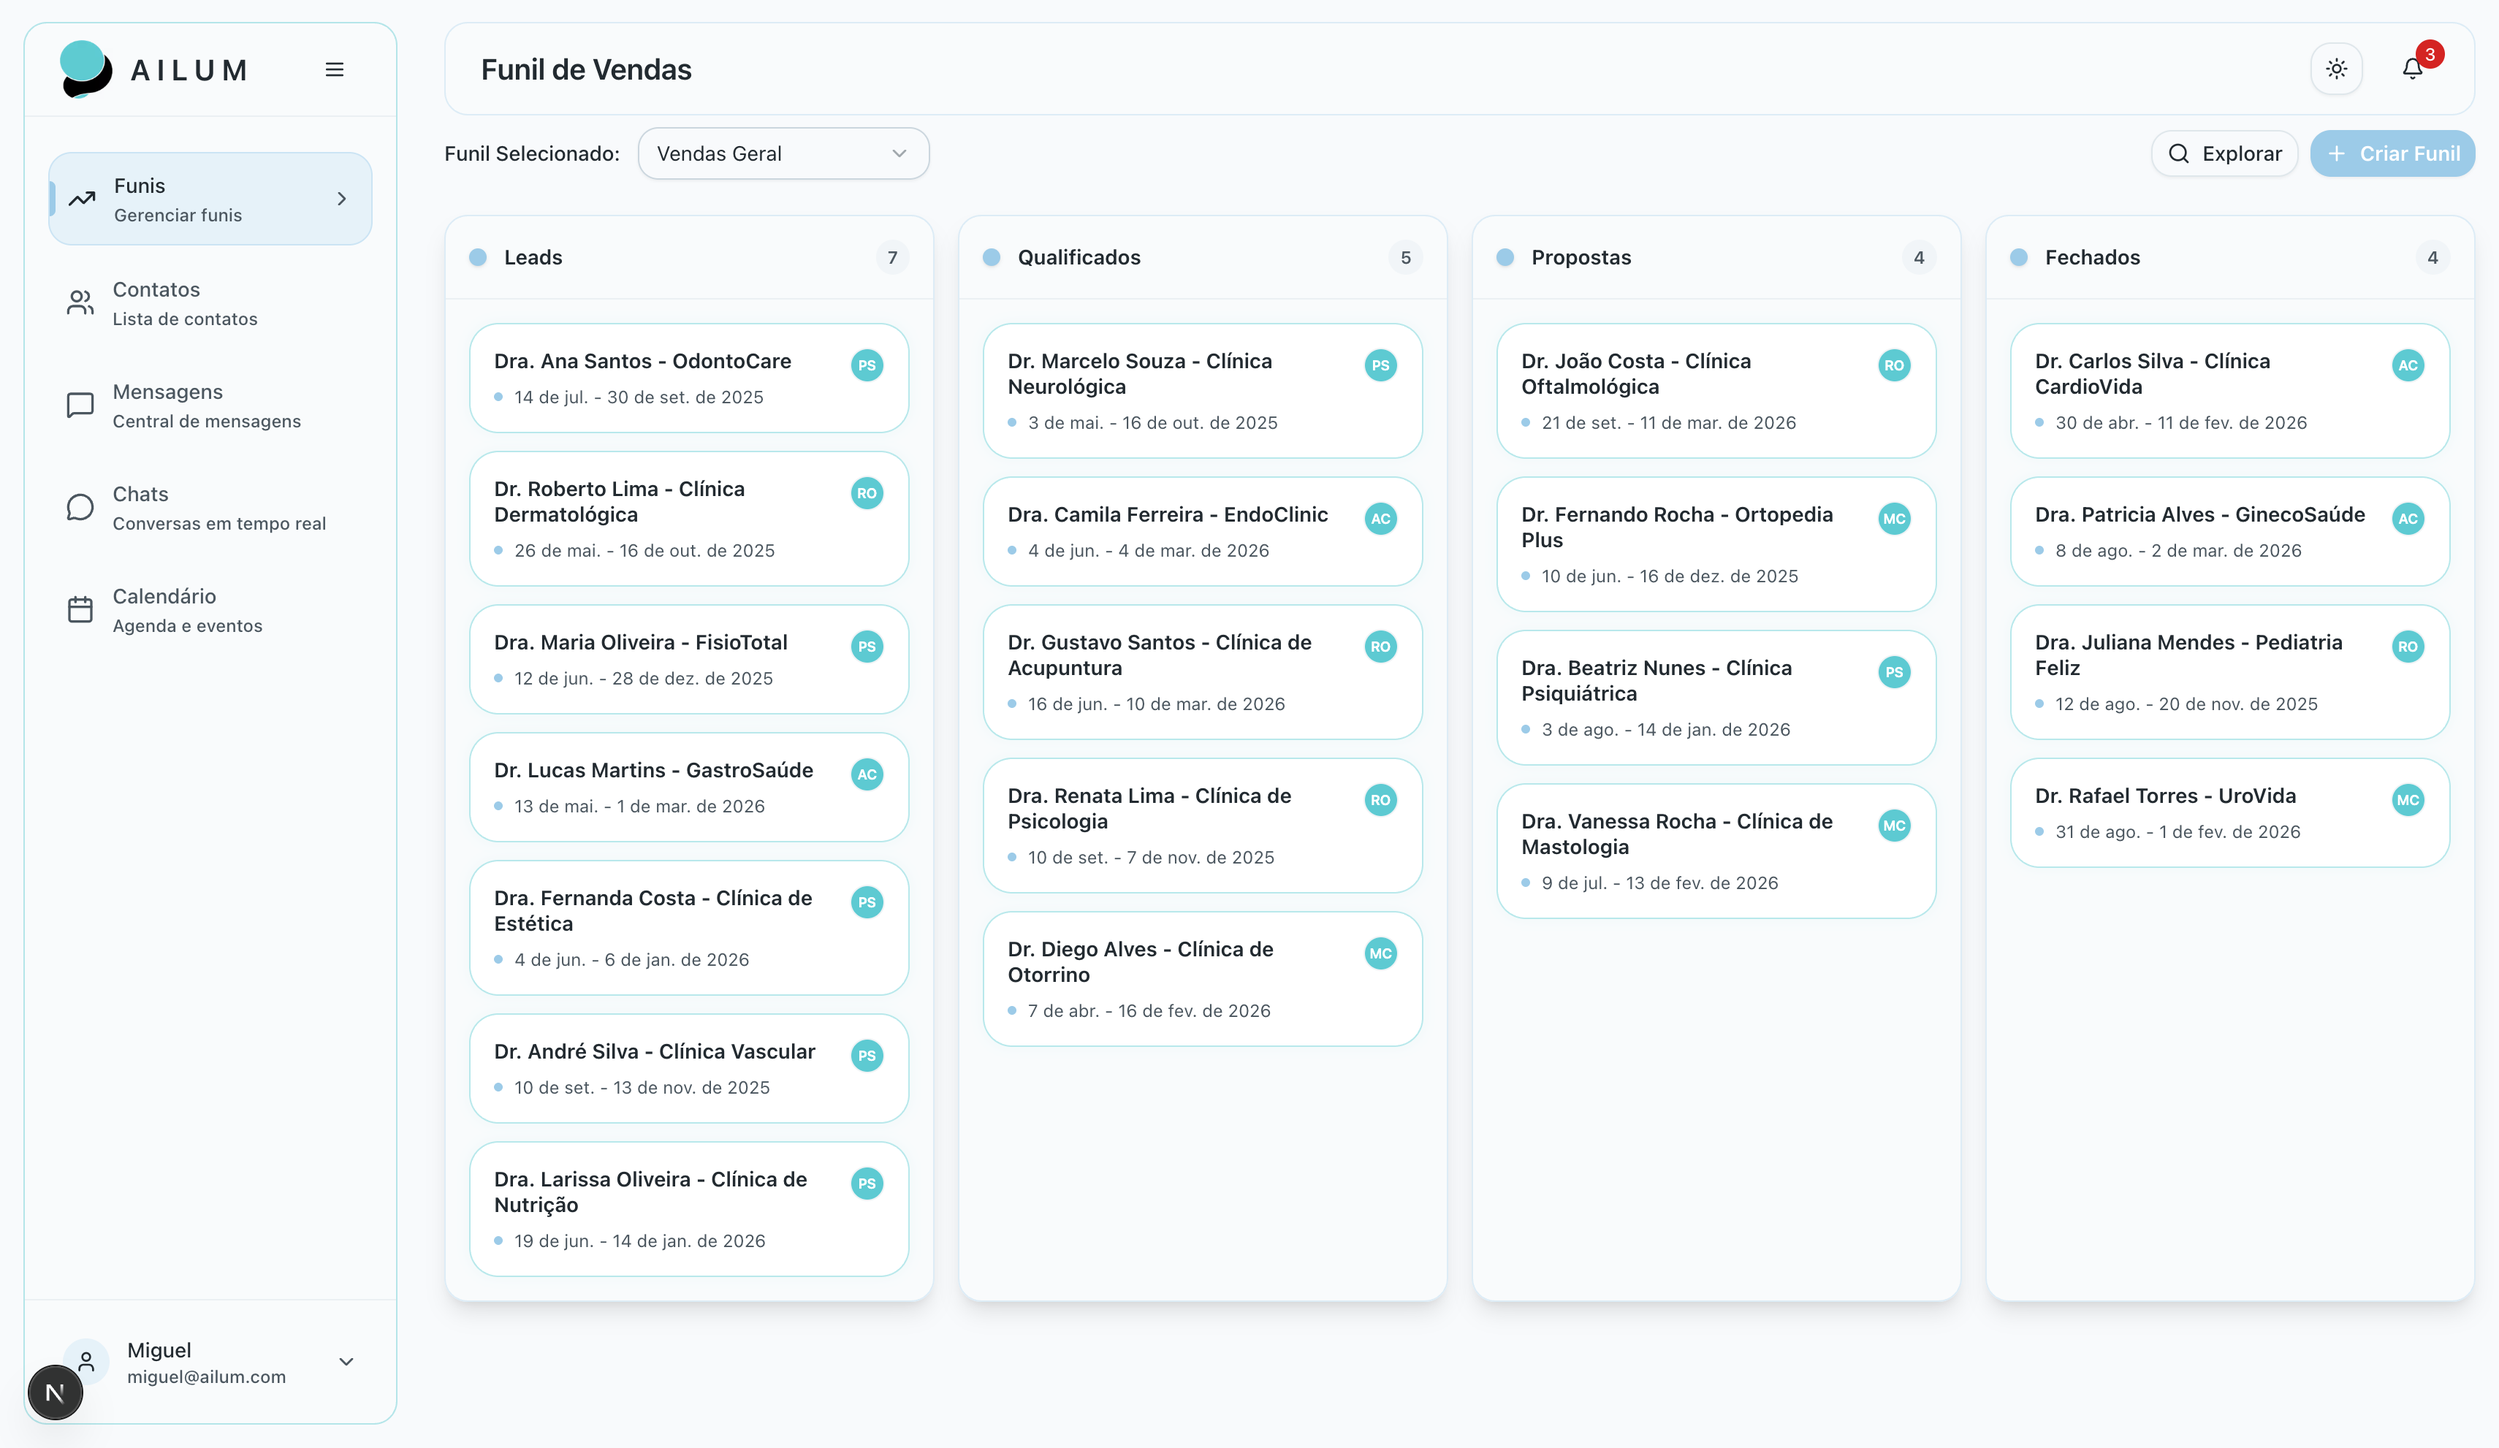
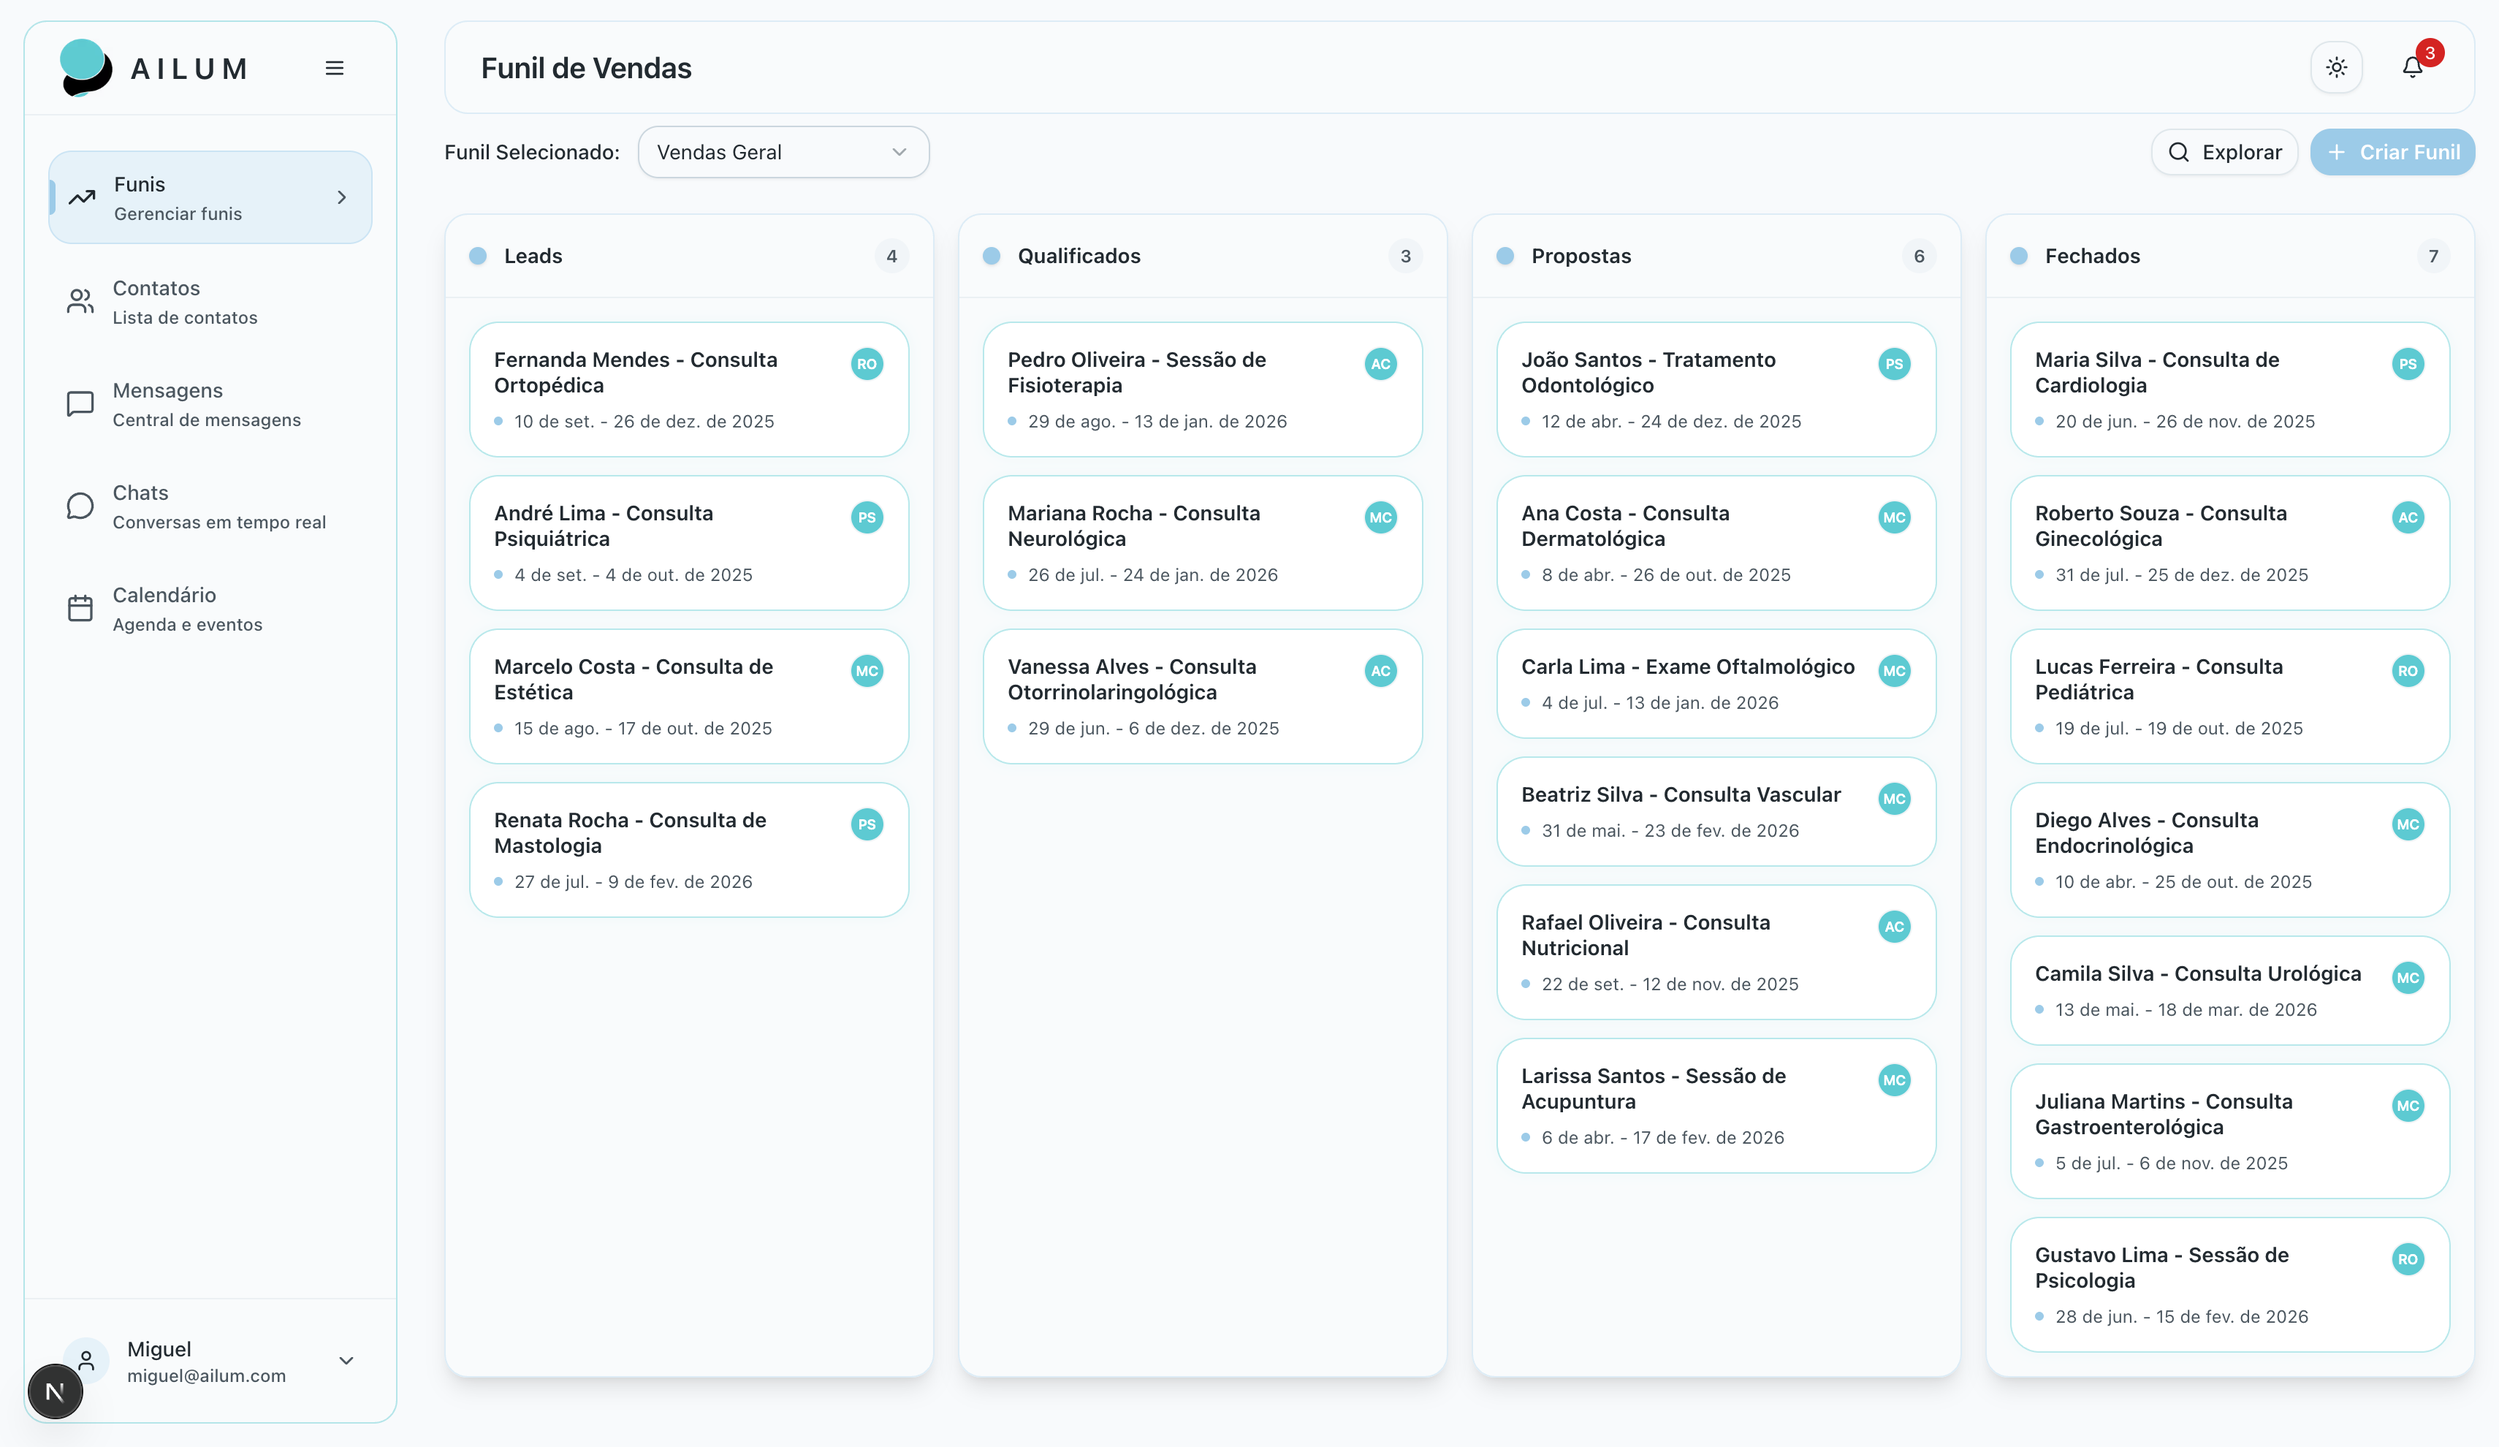
fix: adição de funis legais na landing

diff --git a/components/landing/header.tsx b/components/landing/header.tsx
@@ -7,9 +7,11 @@ import React from 'react'
 import { cn } from '@/lib/utils'
 
 const menuItems = [
-    { name: 'Soluções', href: '#link' },
-    { name: 'Como funciona', href: '#link' },
-    { name: 'Sobre nós', href: '#link' },
+    { name: 'Início', href: '#top' },
+    { name: 'Benefícios', href: '#benefits' },
+    { name: 'Como funciona', href: '#how-it-works' },
+    { name: 'Funcionalidades', href: '#features' },
+    { name: 'FAQ', href: '#faq' },
 ]
 
 export const HeroHeader = () => {
@@ -23,6 +25,28 @@ export const HeroHeader = () => {
         window.addEventListener('scroll', handleScroll)
         return () => window.removeEventListener('scroll', handleScroll)
     }, [])
+
+    const handleLinkClick = (href: string) => {
+        setMenuState(false) // Fecha o menu mobile
+        if (href === '#top') {
+            window.scrollTo({
+                top: 0,
+                behavior: 'smooth'
+            })
+        } else if (href.startsWith('#')) {
+            const element = document.querySelector(href)
+            if (element) {
+                const headerHeight = 80 // Altura aproximada do header
+                const elementPosition = element.getBoundingClientRect().top + window.pageYOffset
+                const offsetPosition = elementPosition - headerHeight
+
+                window.scrollTo({
+                    top: offsetPosition,
+                    behavior: 'smooth'
+                })
+            }
+        }
+    }
     return (
         <header>
             <nav
@@ -51,11 +75,11 @@ export const HeroHeader = () => {
                             <ul className="flex gap-8 text-sm">
                                 {menuItems.map((item, index) => (
                                     <li key={index}>
-                                        <Link
-                                            href={item.href}
+                                        <button
+                                            onClick={() => handleLinkClick(item.href)}
                                             className="text-muted-foreground hover:text-accent-foreground block duration-150">
                                             <span>{item.name}</span>
-                                        </Link>
+                                        </button>
                                     </li>
                                 ))}
                             </ul>
@@ -66,11 +90,11 @@ export const HeroHeader = () => {
                                 <ul className="space-y-6 text-base">
                                     {menuItems.map((item, index) => (
                                         <li key={index}>
-                                            <Link
-                                                href={item.href}
+                                            <button
+                                                onClick={() => handleLinkClick(item.href)}
                                                 className="text-muted-foreground hover:text-accent-foreground block duration-150">
                                                 <span>{item.name}</span>
-                                            </Link>
+                                            </button>
                                         </li>
                                     ))}
                                 </ul>
@@ -86,12 +110,10 @@ export const HeroHeader = () => {
                                     </Link>
                                 </Button>
                                 <Button
-                                    asChild
                                     size="sm"
+                                    onClick={() => handleLinkClick('#application-form')}
                                     className={cn(isScrolled ? 'lg:inline-flex' : 'hidden')}>
-                                    <Link href="#application-form">
-                                        <span>Aplique-se</span>
-                                    </Link>
+                                    <span>Aplique-se</span>
                                 </Button>
                             </div>
                         </div>

diff --git a/app/(browse)/funnels/page.tsx b/app/(browse)/funnels/page.tsx
@@ -102,38 +102,38 @@ const FunnelsPage = () => {
       image: `https://ui-avatars.com/api/?name=${encodeURIComponent(user.name)}&background=04CDD4&color=fff&size=64&bold=true`,
     }));
 
-    // Dados específicos para clínicas médicas
+    // Dados específicos para pacientes
     const clinicLeads = [
-      { name: "Dr. Carlos Silva - Clínica CardioVida", type: "cardiologia" },
-      { name: "Dra. Ana Santos - OdontoCare", type: "odontologia" },
-      { name: "Dr. Roberto Lima - Clínica Dermatológica", type: "dermatologia" },
-      { name: "Dra. Maria Oliveira - FisioTotal", type: "fisioterapia" },
-      { name: "Dr. João Costa - Clínica Oftalmológica", type: "oftalmologia" },
-      { name: "Dra. Patricia Alves - GinecoSaúde", type: "ginecologia" },
-      { name: "Dr. Fernando Rocha - Ortopedia Plus", type: "ortopedia" },
-      { name: "Dra. Juliana Mendes - Pediatria Feliz", type: "pediatria" },
-      { name: "Dr. Marcelo Souza - Clínica Neurológica", type: "neurologia" },
-      { name: "Dra. Camila Ferreira - EndoClinic", type: "endocrinologia" },
-      { name: "Dr. Rafael Torres - UroVida", type: "urologia" },
-      { name: "Dra. Beatriz Nunes - Clínica Psiquiátrica", type: "psiquiatria" },
-      { name: "Dr. Lucas Martins - GastroSaúde", type: "gastroenterologia" },
-      { name: "Dra. Fernanda Costa - Clínica de Estética", type: "estetica" },
-      { name: "Dr. André Silva - Clínica Vascular", type: "cirurgia_vascular" },
-      { name: "Dra. Larissa Oliveira - Clínica de Nutrição", type: "nutricao" },
-      { name: "Dr. Gustavo Santos - Clínica de Acupuntura", type: "acupuntura" },
-      { name: "Dra. Renata Lima - Clínica de Psicologia", type: "psicologia" },
-      { name: "Dr. Diego Alves - Clínica de Otorrino", type: "otorrinolaringologia" },
-      { name: "Dra. Vanessa Rocha - Clínica de Mastologia", type: "mastologia" }
+      { name: "Maria Silva - Consulta de Cardiologia", type: "cardiologia" },
+      { name: "João Santos - Tratamento Odontológico", type: "odontologia" },
+      { name: "Ana Costa - Consulta Dermatológica", type: "dermatologia" },
+      { name: "Pedro Oliveira - Sessão de Fisioterapia", type: "fisioterapia" },
+      { name: "Carla Lima - Exame Oftalmológico", type: "oftalmologia" },
+      { name: "Roberto Souza - Consulta Ginecológica", type: "ginecologia" },
+      { name: "Fernanda Mendes - Consulta Ortopédica", type: "ortopedia" },
+      { name: "Lucas Ferreira - Consulta Pediátrica", type: "pediatria" },
+      { name: "Mariana Rocha - Consulta Neurológica", type: "neurologia" },
+      { name: "Diego Alves - Consulta Endocrinológica", type: "endocrinologia" },
+      { name: "Camila Silva - Consulta Urológica", type: "urologia" },
+      { name: "André Lima - Consulta Psiquiátrica", type: "psiquiatria" },
+      { name: "Juliana Martins - Consulta Gastroenterológica", type: "gastroenterologia" },
+      { name: "Marcelo Costa - Consulta de Estética", type: "estetica" },
+      { name: "Beatriz Silva - Consulta Vascular", type: "cirurgia_vascular" },
+      { name: "Rafael Oliveira - Consulta Nutricional", type: "nutricao" },
+      { name: "Larissa Santos - Sessão de Acupuntura", type: "acupuntura" },
+      { name: "Gustavo Lima - Sessão de Psicologia", type: "psicologia" },
+      { name: "Vanessa Alves - Consulta Otorrinolaringológica", type: "otorrinolaringologia" },
+      { name: "Renata Rocha - Consulta de Mastologia", type: "mastologia" }
     ];
 
-    const generatedLeads = clinicLeads.map((clinic) => ({
+    const generatedLeads = clinicLeads.map((patient) => ({
       id: faker.string.uuid(),
-      name: clinic.name,
+      name: patient.name,
       startAt: faker.date.past({ years: 0.5, refDate: new Date() }),
       endAt: faker.date.future({ years: 0.5, refDate: new Date() }),
       column: faker.helpers.arrayElement(generatedColumns).id,
       owner: faker.helpers.arrayElement(generatedUsers),
-      type: clinic.type,
+      type: patient.type,
     }));
 
     setColumns(generatedColumns);

diff --git a/components/landing/application-form-wrapper.tsx b/components/landing/application-form-wrapper.tsx
@@ -18,7 +18,7 @@ export default function ApplicationFormWrapper() {
           <div className="text-center mb-12 sm:mb-16">
             <BlurFade direction="up" delay={0.2}>
               <h2 className="text-3xl sm:text-4xl md:text-5xl font-medium text-foreground mb-6 sm:mb-8 leading-tight">
-                <Highlighter color="#04CDD4" action="highlight">Aplique-se</Highlighter> para ter acesso ao Ailum
+                Conte-nos como sua clínica pretende <Highlighter color="#04CDD4" action="highlight">evoluir</Highlighter> com o Ailum
               </h2>
             </BlurFade>
             

diff --git a/components/landing/multi-step-application-form.tsx b/components/landing/multi-step-application-form.tsx
@@ -431,7 +431,7 @@ export default function MultiStepApplicationForm({ isOpen, onClose }: MultiStepA
       <DialogContent className="max-w-6xl w-[95vw] sm:w-[90vw] max-h-[90vh] overflow-y-auto p-4 sm:p-6">
         <DialogHeader>
           <DialogTitle className="text-2xl font-semibold text-center">
-            <Highlighter color="#04CDD4" action="highlight">Aplique-se</Highlighter> para ter acesso ao Ailum
+            Conte-nos como sua clínica pretende <Highlighter color="#04CDD4" action="highlight">evoluir</Highlighter> com o Ailum
           </DialogTitle>
         </DialogHeader>
 

diff --git a/components/landing/benefits-section.tsx b/components/landing/benefits-section.tsx
@@ -94,7 +94,7 @@ export default function BenefitsSection() {
   const isInView = useInView(ref, { once: true, margin: "-100px" })
 
   return (
-    <section ref={ref} className="py-16 sm:py-24 md:py-32 bg-white">
+    <section id="benefits" ref={ref} className="py-16 sm:py-24 md:py-32 bg-white">
       <div className="mx-auto max-w-7xl px-4 sm:px-6">
         <motion.div
           variants={transitionVariants.container}

diff --git a/components/landing/how-it-works.tsx b/components/landing/how-it-works.tsx
@@ -162,7 +162,7 @@ export default function HowItWorks() {
   const isInView = useInView(ref, { once: true, margin: "-100px" })
 
   return (
-    <section ref={ref} className="py-24 md:py-32 bg-white">
+    <section id="how-it-works" ref={ref} className="py-24 md:py-32 bg-white">
       <div className="mx-auto max-w-7xl px-4 sm:px-6">
         <motion.div
           variants={transitionVariants.container}

diff --git a/components/landing/features-section.tsx b/components/landing/features-section.tsx
@@ -77,7 +77,7 @@ export default function FeaturesSection() {
   const isInView = useInView(ref, { once: true, margin: "-100px" })
 
   return (
-    <section ref={ref} className="py-24 md:py-32 bg-white">
+    <section id="features" ref={ref} className="py-24 md:py-32 bg-white">
       <div className="mx-auto max-w-7xl px-4 sm:px-6">
         <motion.div
           variants={transitionVariants.container}

diff --git a/components/landing/faq-section.tsx b/components/landing/faq-section.tsx
@@ -122,7 +122,7 @@ export default function FAQSection() {
   const isInView = useInView(ref, { once: true, margin: "-100px" })
 
   return (
-    <section ref={ref} className="py-24 md:py-32 bg-white">
+    <section id="faq" ref={ref} className="py-24 md:py-32 bg-white">
       <div className="mx-auto max-w-4xl px-4 sm:px-6">
         <motion.div
           variants={transitionVariants.container}
